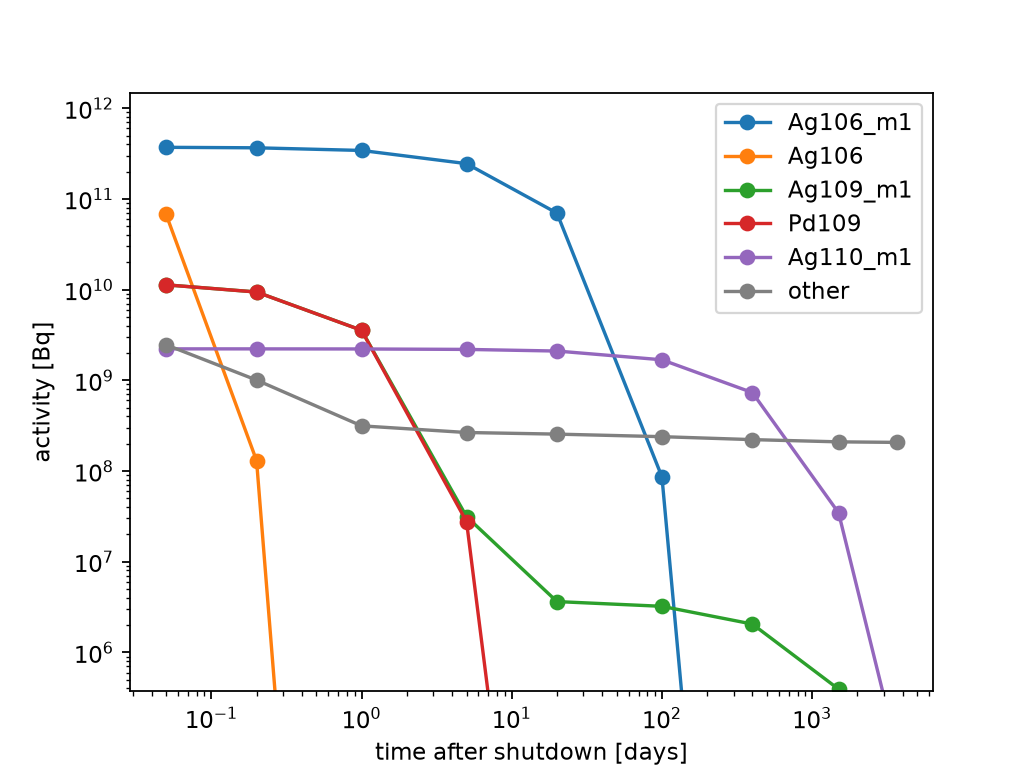
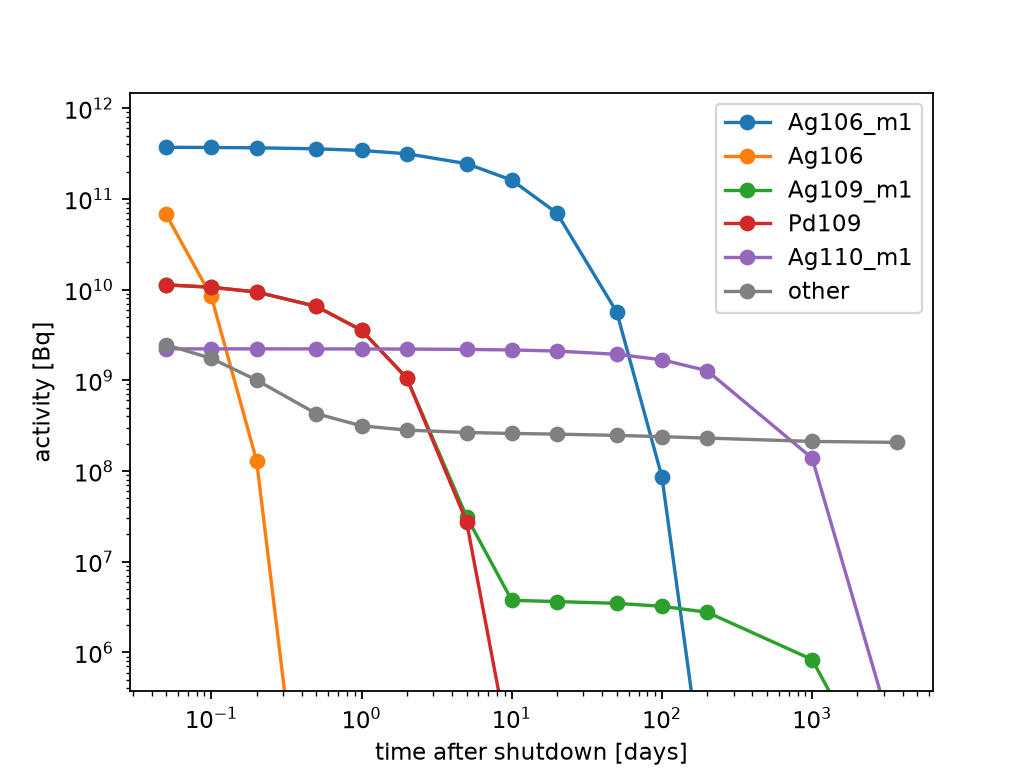
Sample the cooling at fourteen times instead of nine
Five more points, same 0.05 to 3650 day span. A 1-2-5 ladder through
the first hundred days, where the handovers happen, then coarser out to
ten years.

The finer grid moves the crossovers the text can claim. Ag106_m1 now
leads through 50 days rather than 20, and Ag110_m1 at 100 and 200 with
Ag108_m1 from 1000, so "the first couple of months" and "a few hundred
days" replace "a few weeks" and "about a year".

Activity and decay heat redrawn. photon_spectrum.png is unchanged, and
byte-identical rather than merely similar: cooling is pure decay, so the
inventory ten years out does not depend on how the interval is split.

Drawn from a run checked against the failure documented in the PR. The
first attempt was rejected at 2.0334e8 Bq and the second accepted at
2.069768e8, with the top five and the 723/434/614 keV lines matching
every healthy run.

diff --git a/docs/getting_started.md b/docs/getting_started.md
@@ -96,8 +96,8 @@ spectrum = yani.NeutronSource(
 )
 # Sample the decay at these times after shutdown, in days. A Cooldown takes the
 # duration OF THAT STEP, so the schedule needs the gaps between them.
-days = [0.05, 0.2, 1, 5, 20, 100, 400, 1500, 3650]
-gaps = [0.05, 0.15, 0.8, 4, 15, 80, 300, 1100, 2150]
+days = [0.05, 0.1, 0.2, 0.5, 1, 2, 5, 10, 20, 50, 100, 200, 1000, 3650]
+gaps = [0.05, 0.05, 0.1, 0.3, 0.5, 1, 3, 5, 10, 30, 50, 100, 800, 2650]
 
 schedule = yani.PulseSchedule(
     [yani.Pulse(rate=1.11e14, duration=(100, "d"), source=spectrum)]  # 100 days on
@@ -118,8 +118,8 @@ problem appears: which product dominates depends entirely on how long you wait.
 
 ![Activity of the foil, by nuclide, against cooling time](images/activity.png)
 
-`Ag106_m1` carries the activity for the first few weeks, then `Ag110_m1` takes
-over out to about a year, so what dominates depends entirely on when you look.
+`Ag106_m1` carries the activity for the first couple of months, then `Ag110_m1`
+takes over for a few hundred days, so what dominates depends on when you look.
 `Ag106` and `Pd109` are gone within days. Past a few years `Ag110_m1` has
 decayed too and `Ag108_m1` is what is left: it never peaks high enough to make
 the five largest, so the grey "other" line is the one still carrying the
